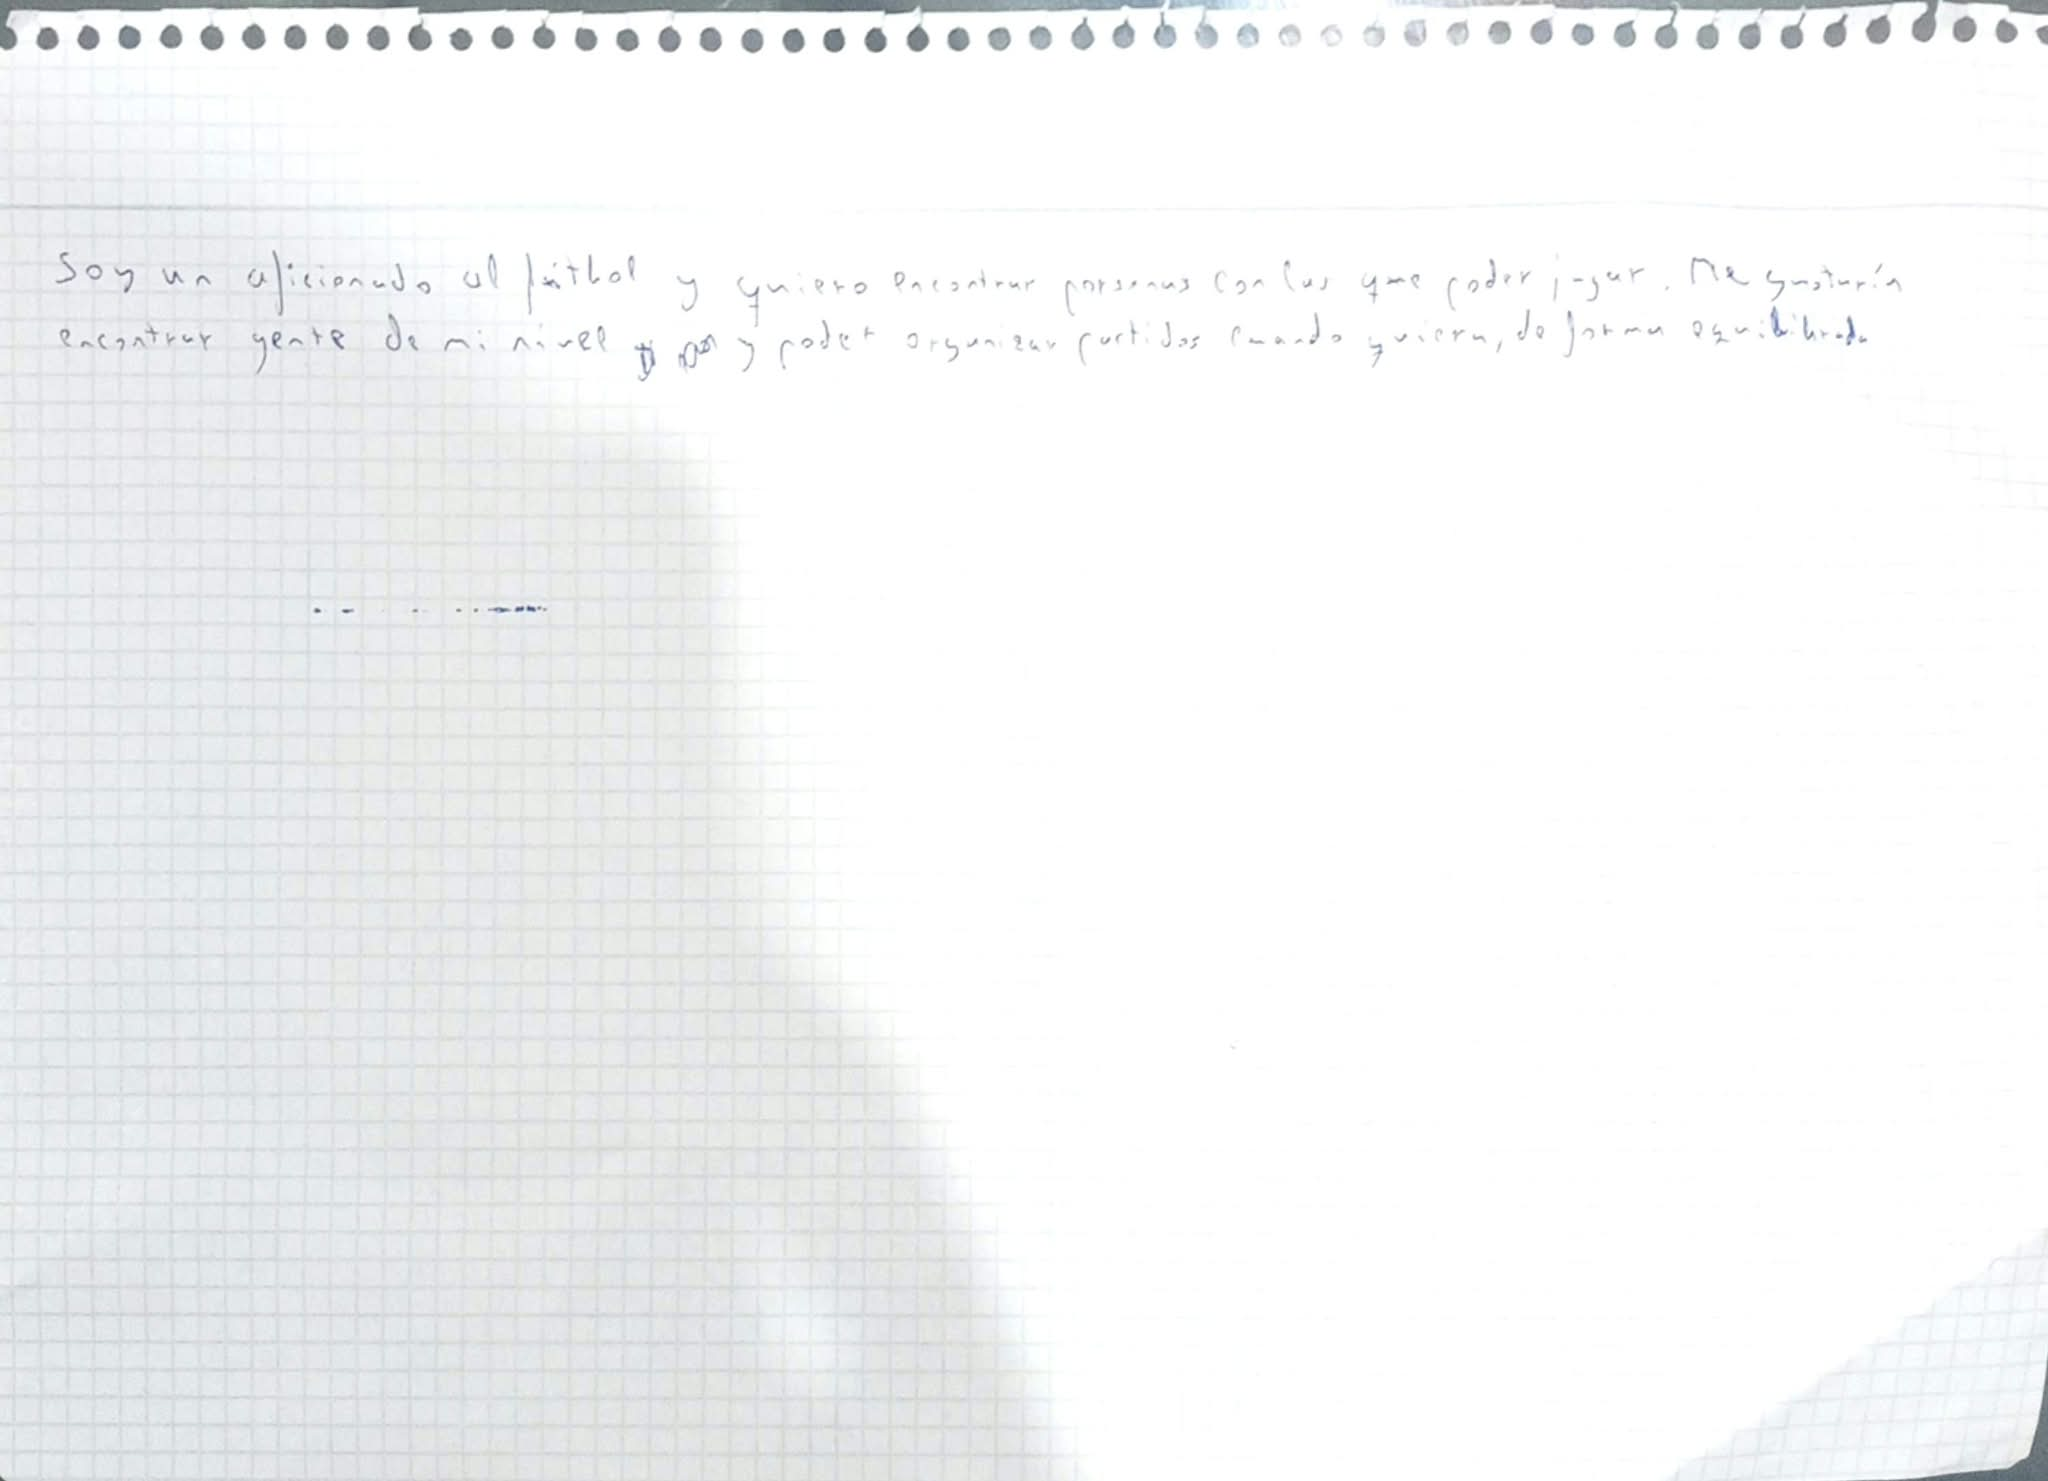
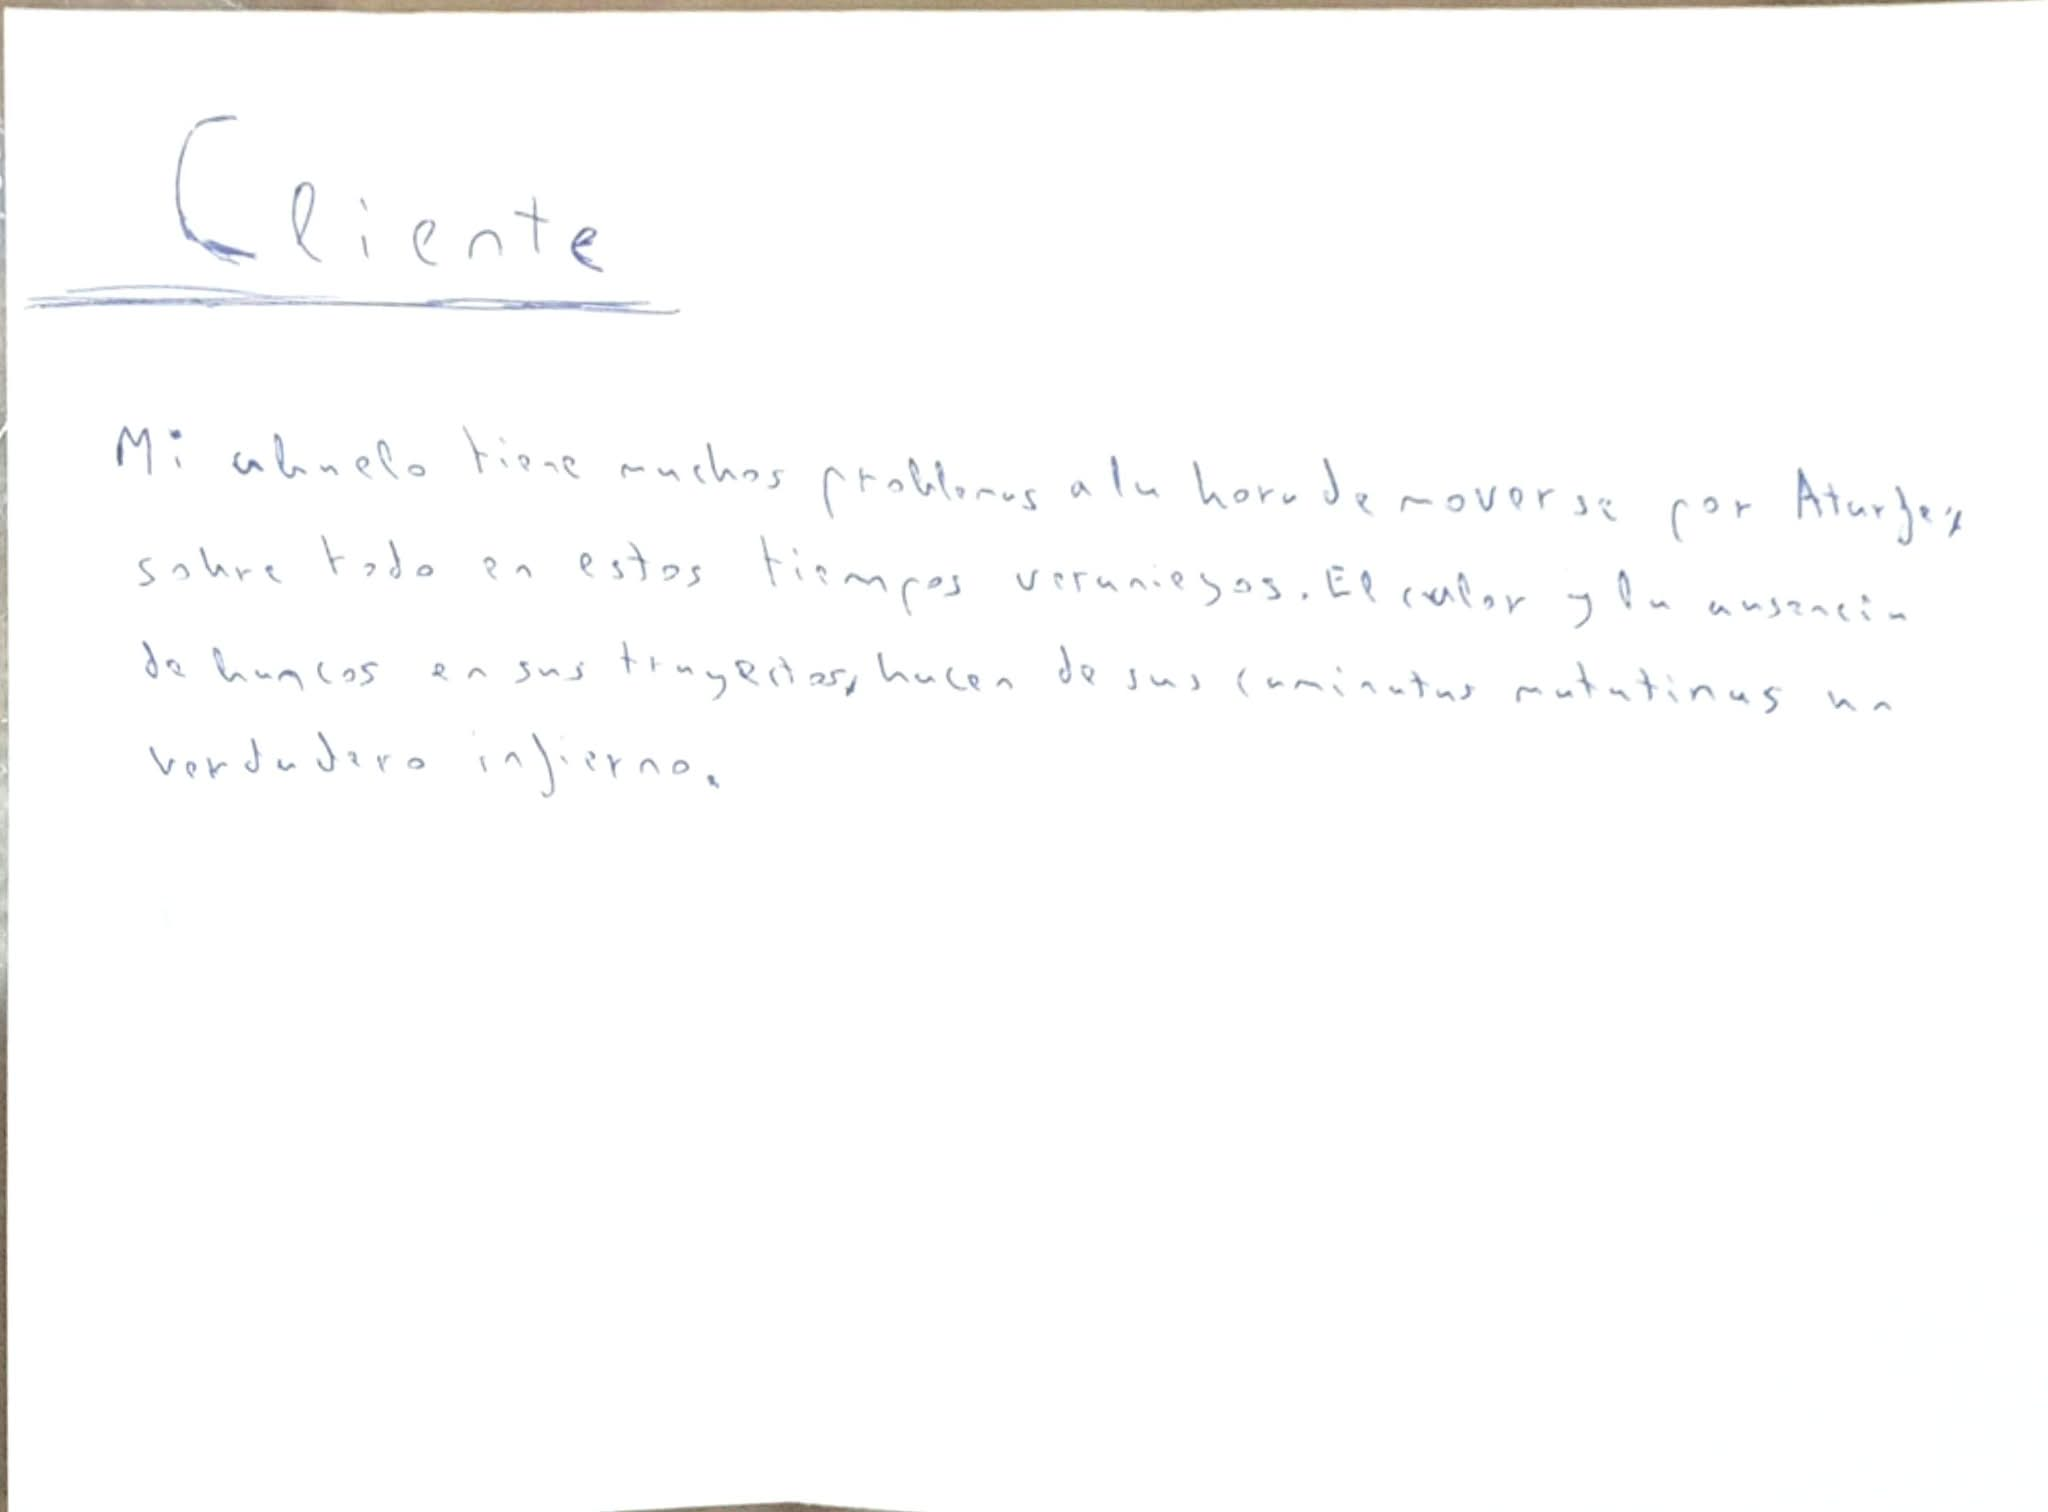
Descartada la idea anterior por carencia de datos con los que trabajar. Establecido un problema nuevo tratando de solucionar esa falta de datos

diff --git a/README.md b/README.md
@@ -1,10 +1,10 @@
-# OnThePitch
+# HealthyRoutes
 
 *Proyecto realizado por Jaime Rojas Herrera*
 
 ### Descripción del Problema
 
-A lo largo de estos años, me he dado cuenta de que los campos de fútbol de mi pueblo están casi siempre vacíos. Siento que los aficionados de este deporte no se animan a practicarlo, debido seguramente a la dificultad de encontrar otros con los que jugar. Incluso a mí hay veces que me ha pasado lo siguiente: comentas por tú grupo de amigos para ir y echar un rato jugando, pero ninguno acaba pudiendo ir, quedándote con las ganas. Además, en mi pueblo no se celebran muchos torneos locales. Para terminar, otro problema con el que me he encontrado es con aficionados de un equipo que no asisten a los estadios porque no tienen a nadie con quién ir. En estos tiempos, con las redes sociales a la orden del día, me sorprende la carencia de un medio para poder conectar con amantes de uno de los deportes con más renombre en la actualidad.
+Las personas mayores, con movilidad reducida o con algún problema cardiovascular sufren cada día moviéndose por las calles de Granada. Cuando necesitan ir a un lugar desconocido, hacen uso de Google Maps, pensando que la ruta designada será óptima. Y la verdad, probablemente sea la mejor posible, pero no para ellos. Altos desniveles, largas callejuelas sin una pizca de sombra en verano, horas y horas de camino sin bancos o fuentes en las que poder tomar un respiro... En definitiva, Google Maps no se ajusta a estas condiciones adversas que provocan múltiples quebraderos de cabeza para estas minorías desfavorecidas.
 
 ### Juego de Rol
 
@@ -21,15 +21,15 @@ A lo largo de estos años, me he dado cuenta de que los campos de fútbol de mi 
 
 #### ¿Se trata de un problema real del que se tenga conocimiento personal?
 
-Si, de hecho, en mi propio pueblo tengo constancia de varias personas que no encuentran nadie con quién jugar.
+Si, este verano se han reportado numerosos golpes de calor que quizás se podrían haber sofocado si siguiesen una ruta ajustada para ellos.
 
 #### ¿Se trata de un problema que para solucionar requiera el despliegue de una aplicación en la nube?
 
-Correcto, es totalmente necesario el uso de una aplicación/plataforma conectada en la red para que los usuarios puedan solicitar personas con las que poder jugar. Un usuario debería acceder al servicio, introducir su nivel y mandar un aviso por la plataforma indicando que busca gente con la practicar el deporte, aviso que posteriormente se enviará a usuarios cerca de su zona. Sin estar la aplicación desplegada en la nube, esto sería imposible.
+Correcto, es necesario recabar en cada momento condicionantes como la temperatura, la posición del sol, obstaculos en la ruta... Todo esto en tiepo real, para poder proporcionar al usuario la mejor ruta posible. De no estar en la nube, actualizar estos datos en tiempo real no sería posible.
 
 #### ¿La solución requiere una cierta cantidad de lógica de negocio, en vez de solucionarse sólo almacenando y buscando?
 
-Efectivamente. Esta solución implica que los usuarios tienen un nivel (que en un principio ellos mismos eligen), por lo que a la hora de realizar los emparejamientos, es necesario que haya un equilibrio para que los equipos no acaben descompensados. Además, los propios usuarios, siempre y cuando un partido haya llegado a su conclusión, pueden darle una valoración al partido que haya hecho un usuario en particular, lo cual se tendrá en cuenta para ajustar su nivel en posteriores partidos. Por último, jugadores con un nivel avanzado claramente no van a emparejarse con jugadores de nivel bajo, por lo que en el momento de mandar avisos se descartarían jugadores con flébil nivel.
+Efectivamente. En primer lugar se extraen los datos de plataformas como el ayuntamiento de granada, de plataformas de meteorología, incluso del propio Google Maps. Posteriormente estos datos serán analizados y se calcularán, por ejemplo, las zonas de sombra en función de la posición del sol y la altura de los edificios. Se continuará descartando aquellas rutas que, aunque seán las más rápidas, superen un umbral de riesgo (muchas zonas sin sombra, sin bancos o fuentes de agua, con muchos desniveles pronunciados...). Finalmente se generará la mejor ruta posible para evitar riesgos.
 
 #### ¿Se ha incluido la configuración del repositorio y se ha enlazado desde el `README`?
 
@@ -37,7 +37,7 @@ Si, por supuesto. La configuración se encuentra arriba. También se ha enlazado
 
 #### ¿El estudiante tiene todos los datos necesarios para poder resolver el problema, o va a requerir que el usuario los introduzca?
 
-Es necesario que el usuario introduzca su nivel, o, a medida que vaya jugando, que otros usuarios determinen su nivel en base a valoraciones. Eso sí, datos referentes a estadios (para que los usuarios puedan encontrar personas con las que asistir) se extrarían directamente de Google Maps. Más allá de eso, es una aplicación por y para los usuarios, por lo que ellos mismos son los datos con los que trabajar.
+Si, el usuario apenas debe introducir datos, tan solo su ubicación y el lugar al que planea ir. Los datos necesarios están en páginas como el ayuntamiento de Granada o el Instituto Geográfico Nacional.
 
 
 
